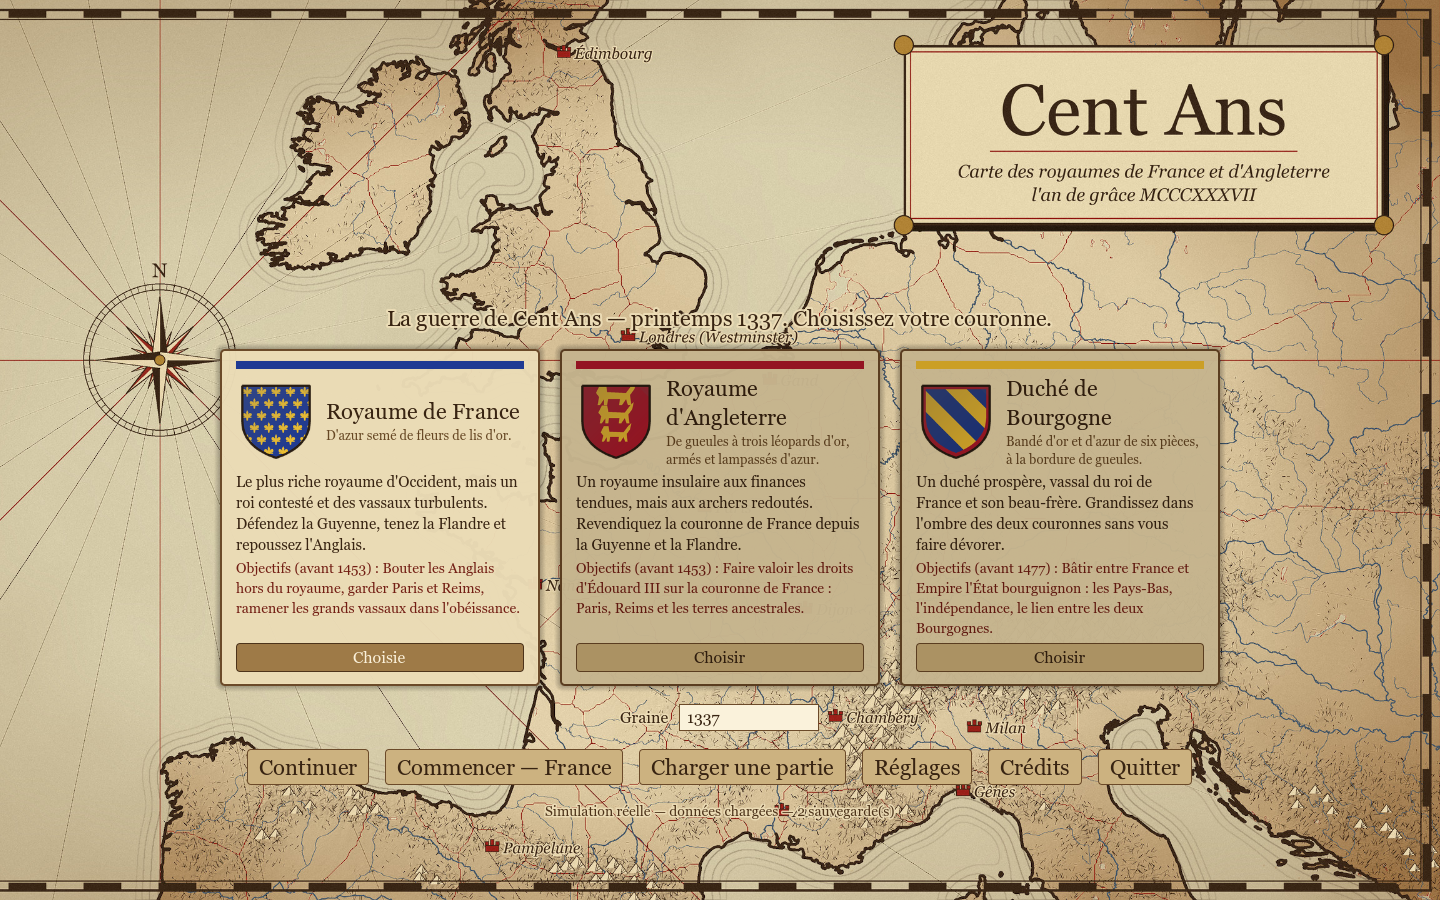
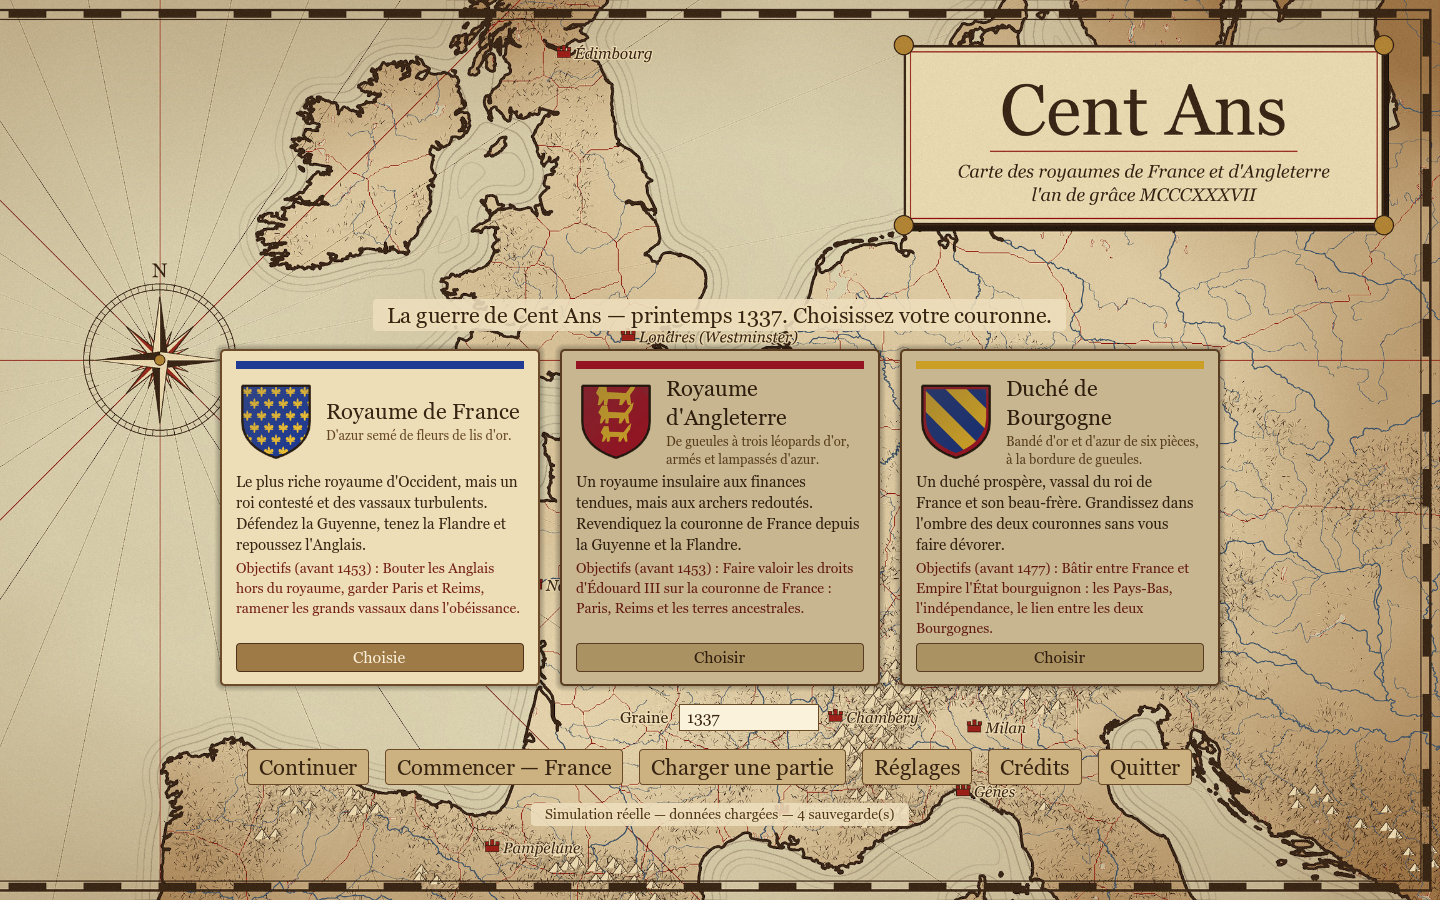
fix(ui): parchment backing under start menu subtitle and status (map labels no longer show through)

Changed region(s): [[0.25, 0.3111, 0.75, 0.3733], [0.375, 0.8711, 0.625, 0.9333]]

diff --git a/docs/wip/finalisation.md b/docs/wip/finalisation.md
@@ -23,7 +23,7 @@ Clé OpenRouter bloquée jusqu'au 1er octobre (limite propre 100 $/mois) : pas d
 
 ## Défauts relevés à la revue (pour F9 / recette)
 - (corrigé F4) Portugal : « la lignée s'éteint » au tour 3 (Hiver 1337) alors qu'Afonso IV a un héritier (Pierre Ier) — à diagnostiquer (succession / héritier non lié ?).
-- Menu de départ : sous-titre et ligne d'état chevauchent les noms de villes de l'illustration (fond à dégager sous le texte).
+- (corrigé) Menu de départ : sous-titre et ligne d’état chevauchent les noms de villes de l'illustration (fond à dégager sous le texte).
 - (pris par ui-tw lot A) Panneau de province : ligne de debug « Identifiant prov_… (index N) » à retirer.
 - (pris par ui-tw lot A) Menu « Menu principal » de la barre du haut quitte sans confirmation (seul le menu pause confirme).
 - Rapport de saison : n'inclut pas les batailles résolues par le dialogue après la fin du tour.
